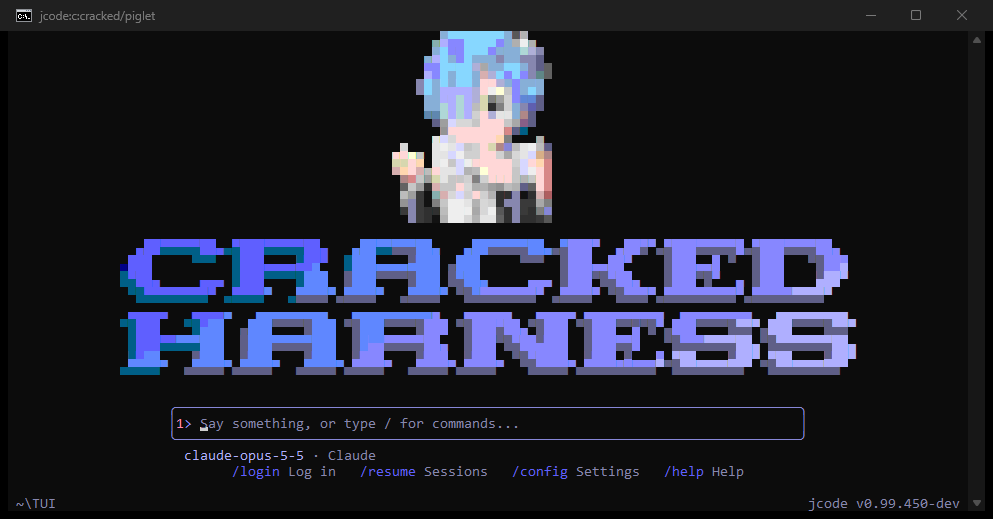
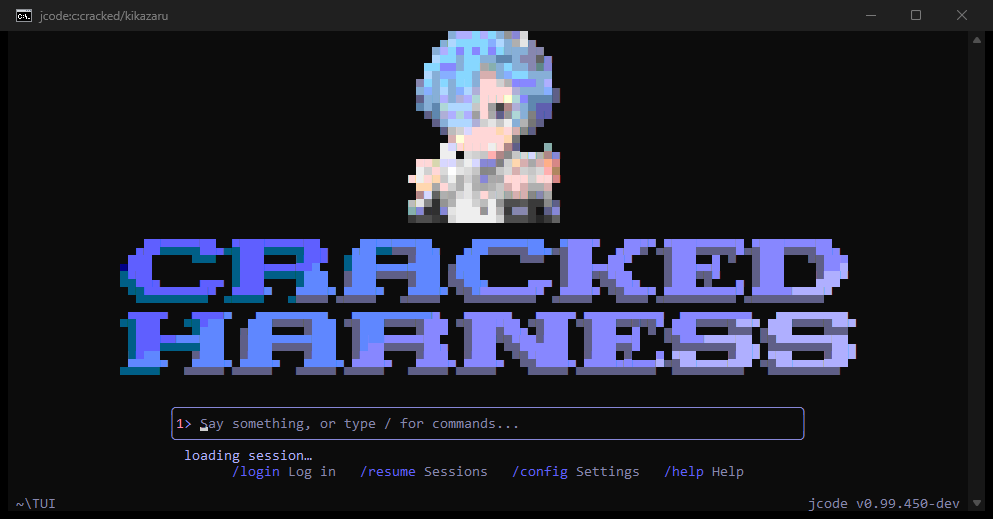
tui: animate hero sprite on Windows Terminal/WSL at its own 12fps (decorative policy disabled it)

Changed region(s): [[0.3746, 0.0617, 0.5619, 0.4316], [0.1873, 0.8632, 0.3746, 0.894], [0.1249, 0.0, 0.1561, 0.0617]]

diff --git a/crates/jcode-tui/src/tui/redraw_schedule.rs b/crates/jcode-tui/src/tui/redraw_schedule.rs
@@ -82,15 +82,35 @@ fn idle_donut_active_with_policy(
 
     // The hero welcome sprite is the fork's default fresh-session look and is
     // animated independently of the opt-in classic donut setting.
-    let animation_configured =
-        crate::config::config().display.idle_animation || ui::welcome::welcome_hero_wanted(state);
-    policy.enable_decorative_animations
+    let hero = ui::welcome::welcome_hero_wanted(state);
+    let animation_configured = crate::config::config().display.idle_animation || hero;
+    // Windows Terminal / cmd / conhost turn decorative animation off because the
+    // full-screen 3D donut is expensive through ConPTY. The sprite is a small
+    // pre-rendered rect repainted on the partial-repaint fast path at 12fps, so
+    // it stays on there unless the machine is in the Minimal perf tier.
+    let decorative_allowed = policy.enable_decorative_animations
+        || (hero && windows_console_family() && policy.tier.animations_enabled());
+    decorative_allowed
         && animation_configured
-        && policy.tier.idle_animation_enabled()
+        && (policy.tier.idle_animation_enabled() || hero)
         && !has_started_conversation(state)
         && !state.is_processing()
         && state.streaming_text().is_empty()
         && state.queued_messages().is_empty()
+}
+
+/// Terminals where jcode disables decorative animation by policy (Windows
+/// Terminal / cmd / conhost, and WSL). The sprite is cheap enough to keep there.
+fn windows_console_family() -> bool {
+    let profile = crate::perf::profile();
+    profile.is_wsl || profile.is_windows_terminal_family()
+}
+
+/// Cadence for the hero sprite: its own frame rate, independent of the
+/// policy's `animation_fps` (which is forced to 1 when decorative animation is
+/// off by terminal policy).
+fn hero_sprite_interval() -> Duration {
+    fps_to_duration(ui::welcome::SPRITE_FPS as u32)
 }
 
 /// Whether the transcript contains any real conversation yet (a user prompt or
@@ -464,6 +484,9 @@ pub(crate) fn redraw_interval_with_policy_and_animation(
         // keystrokes, and return to full smoothness as soon as typing pauses.
         if actively_composing(state) {
             return REDRAW_IDLE;
+        }
+        if ui::welcome::welcome_hero_wanted(state) {
+            return hero_sprite_interval();
         }
         return match policy.tier {
             crate::perf::PerformanceTier::Minimal => fast_interval,

diff --git a/crates/jcode-tui/src/tui/ui_welcome.rs b/crates/jcode-tui/src/tui/ui_welcome.rs
@@ -24,7 +24,7 @@ use std::sync::OnceLock;
 use unicode_width::UnicodeWidthStr;
 
 /// Sprite sheet frame rate (matches `welcome_assets/sprite.json`).
-const SPRITE_FPS: f32 = 12.0;
+pub(crate) const SPRITE_FPS: f32 = 12.0;
 /// Frames per sheet (matches `welcome_assets/sprite.json`).
 const SPRITE_FRAMES: usize = 7;
 /// Frame edge length in pixels for each embedded sheet, biggest first.
